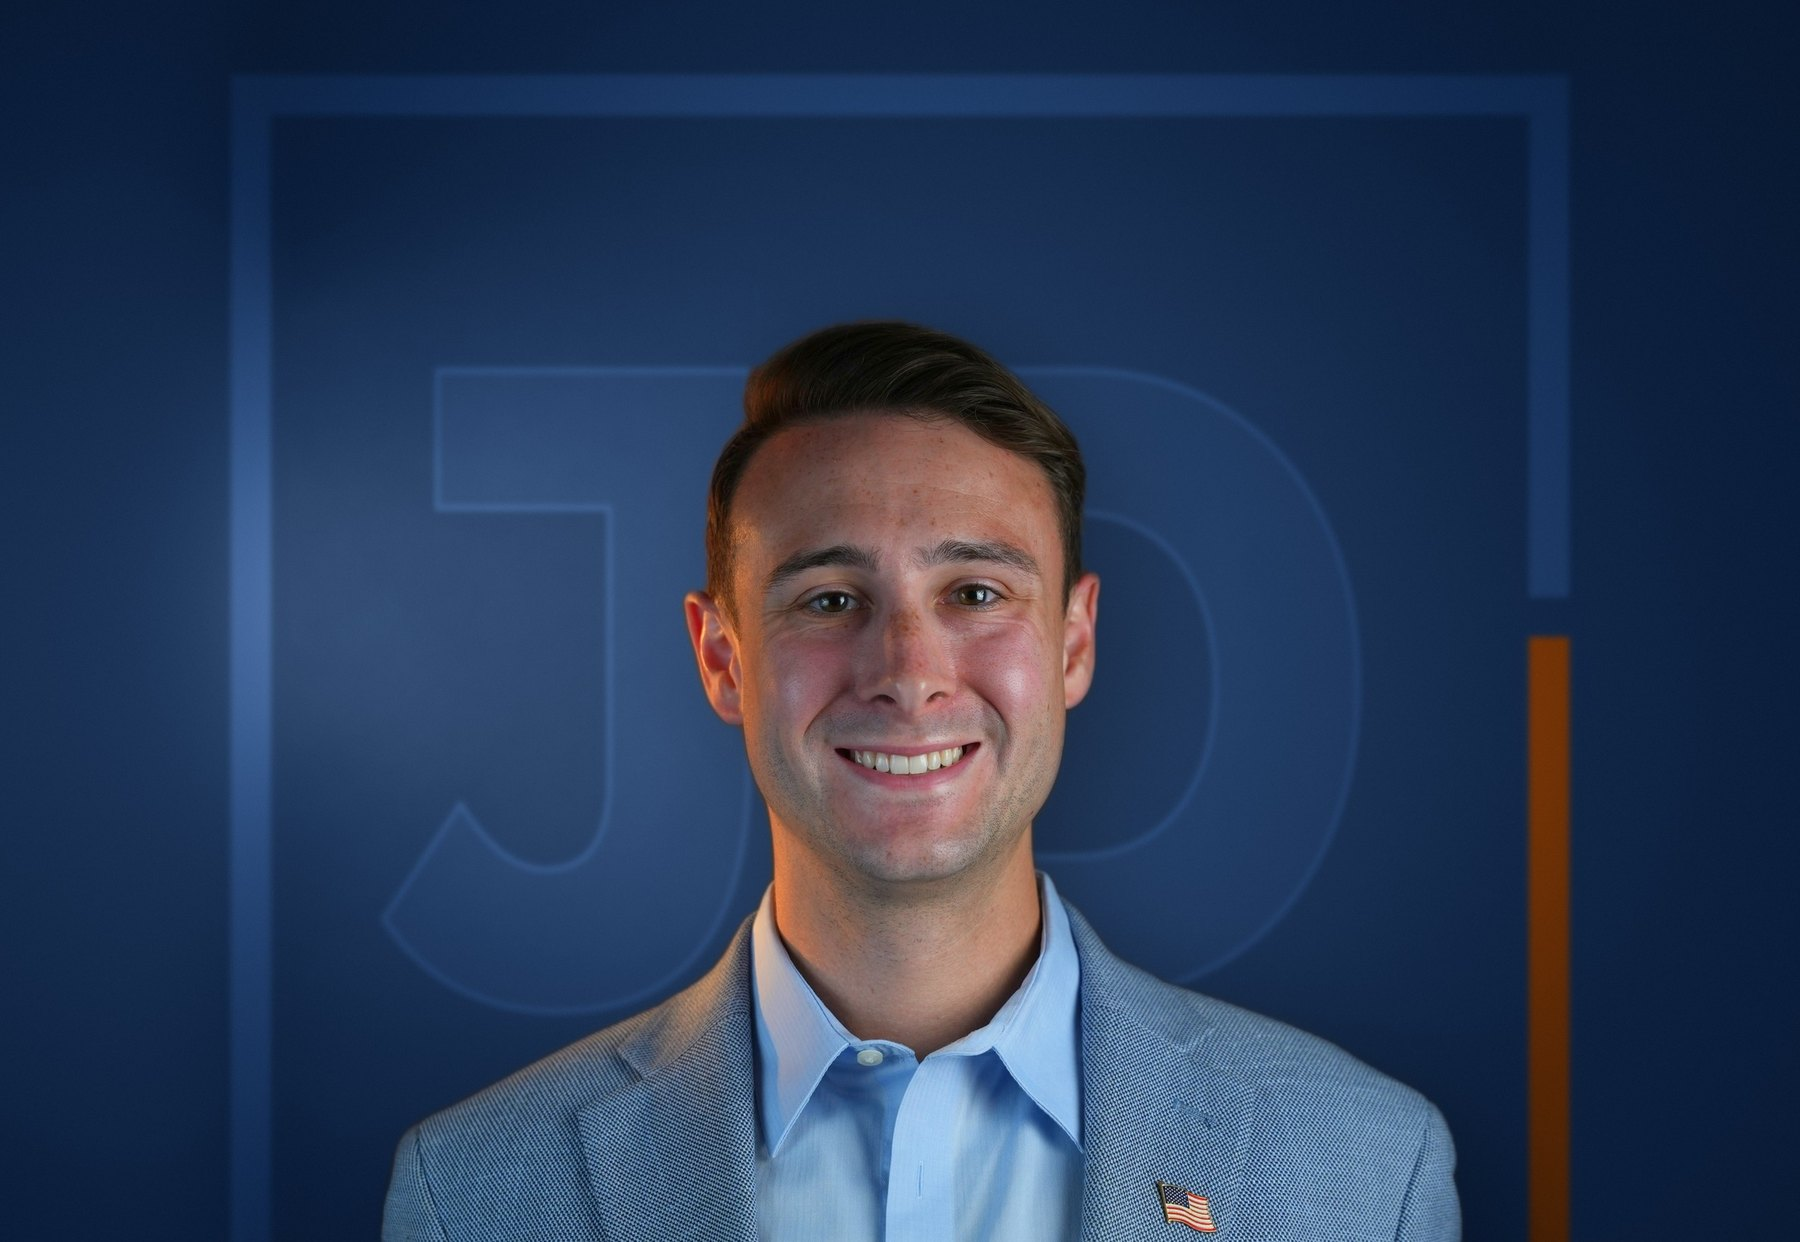
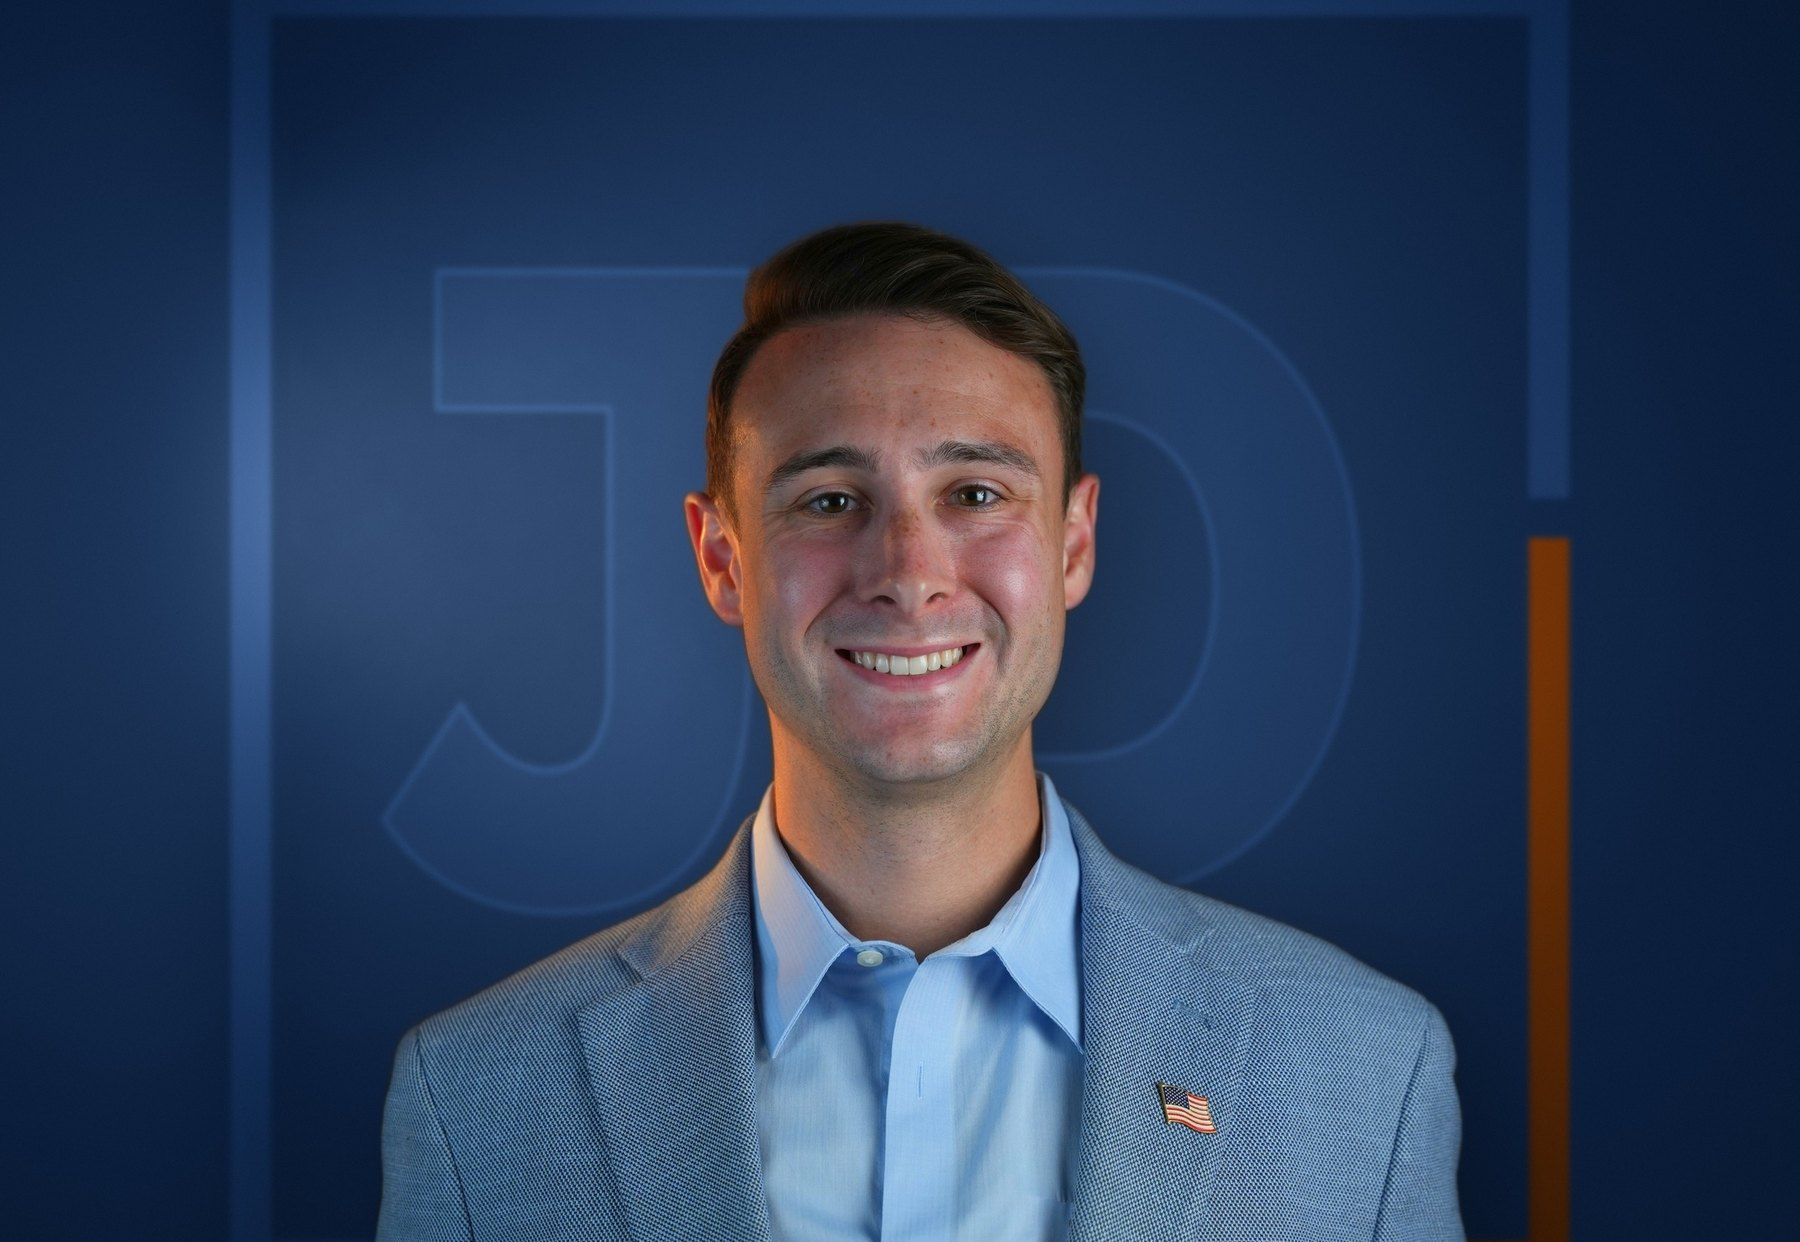
Round 31d: hero headroom trimmed; phone fixes for steps grid, footer columns and podcast card

diff --git a/index.html b/index.html
@@ -19,8 +19,8 @@
 <link rel="preconnect" href="https://fonts.googleapis.com">
 <link rel="preconnect" href="https://fonts.gstatic.com" crossorigin>
 <link href="https://fonts.googleapis.com/css2?family=Playfair+Display:ital,wght@0,400..900;1,400..900&family=Inter:opsz,wght@14..32,400..700&family=Montserrat:wght@400;800&display=swap" rel="stylesheet">
-<link rel="preload" as="image" href="assets/josh/hero.jpg?v=20261103d" imagesrcset="assets/josh/hero@900.jpg?v=20261103d 900w, assets/josh/hero@1600.jpg?v=20261103d 1600w, assets/josh/hero.jpg?v=20261103d 3200w" imagesizes="50vw" media="(min-width:901px)" fetchpriority="high">
-<link rel="preload" as="image" href="assets/josh/hero-m.jpg?v=20261103d" imagesrcset="assets/josh/hero-m@900.jpg?v=20261103d 900w, assets/josh/hero-m.jpg?v=20261103d 1800w" imagesizes="100vw" media="(max-width:900px)" fetchpriority="high">
+<link rel="preload" as="image" href="assets/josh/hero.jpg?v=20261103e" imagesrcset="assets/josh/hero@900.jpg?v=20261103e 900w, assets/josh/hero@1600.jpg?v=20261103e 1600w, assets/josh/hero.jpg?v=20261103e 3200w" imagesizes="50vw" media="(min-width:901px)" fetchpriority="high">
+<link rel="preload" as="image" href="assets/josh/hero-m.jpg?v=20261103e" imagesrcset="assets/josh/hero-m@900.jpg?v=20261103e 900w, assets/josh/hero-m.jpg?v=20261103e 1800w" imagesizes="100vw" media="(max-width:900px)" fetchpriority="high">
 <link rel="stylesheet" href="assets/site.css">
 </head>
 <body>
@@ -74,8 +74,8 @@
       </div>
     </div>
     <figure class="hero-photo">
-      <picture><source media="(max-width:900px)" srcset="assets/josh/hero-m@900.jpg?v=20261103d 900w, assets/josh/hero-m.jpg?v=20261103d 1800w" sizes="100vw">
-      <img src="assets/josh/hero.jpg?v=20261103d" srcset="assets/josh/hero@900.jpg?v=20261103d 900w, assets/josh/hero@1600.jpg?v=20261103d 1600w, assets/josh/hero.jpg?v=20261103d 3200w" sizes="(max-width:900px) 100vw, 50vw" width="3200" height="2400" alt="Josh DuBois, founder of JD Strategic Franchising" fetchpriority="high" decoding="async"></picture>
+      <picture><source media="(max-width:900px)" srcset="assets/josh/hero-m@900.jpg?v=20261103e 900w, assets/josh/hero-m.jpg?v=20261103e 1800w" sizes="100vw">
+      <img src="assets/josh/hero.jpg?v=20261103e" srcset="assets/josh/hero@900.jpg?v=20261103e 900w, assets/josh/hero@1600.jpg?v=20261103e 1600w, assets/josh/hero.jpg?v=20261103e 3200w" sizes="(max-width:900px) 100vw, 50vw" width="3200" height="2070" alt="Josh DuBois, founder of JD Strategic Franchising" fetchpriority="high" decoding="async"></picture>
       <figcaption class="hero-quote hv" style="--i:9"><p>I&rsquo;ve lived every side of it, the good deals and the bad ones, to help you manage the realities of ownership with clarity and confidence, without the costly mistakes.</p><cite>Josh DuBois, Founder</cite></figcaption>
     </figure>
   </div>

diff --git a/assets/site.css b/assets/site.css
@@ -145,7 +145,7 @@ body.ready .hero h1 .ln>span{transform:none}
 .hstat .n sup{font-size:.46em;vertical-align:.7em;font-weight:600}
 .hstat .l{font-size:10px;font-weight:700;letter-spacing:.16em;text-transform:uppercase;color:var(--muted);line-height:1.45;margin-top:9px;max-width:22ch}
 .hero-photo{position:relative;margin:0;overflow:hidden;background:var(--ink);min-height:420px}
-.hero-photo img{position:absolute;inset:0;width:100%;height:100%;object-fit:cover;object-position:50% 38%;transform-origin:50% 40%;opacity:0;transform:scale(1.05);transition:opacity 1.3s var(--ease-cine) .15s,transform 2.1s var(--ease-cine) .15s}
+.hero-photo img{position:absolute;inset:0;width:100%;height:100%;object-fit:cover;object-position:50% 20%;transform-origin:50% 30%;opacity:0;transform:scale(1.05);transition:opacity 1.3s var(--ease-cine) .15s,transform 2.1s var(--ease-cine) .15s}
 body.ready .hero-photo img{opacity:1;transform:none;animation:breathe 26s ease-in-out 2.4s infinite alternate}
 @keyframes breathe{from{transform:scale(1)}to{transform:scale(1.035)}}
 .hero-photo::after{content:"";position:absolute;inset:0;pointer-events:none;background:linear-gradient(to right,rgba(6,16,32,.16),transparent 22%)}
@@ -1420,3 +1420,12 @@ a.cat{display:block;color:inherit}
 /* ROUND 31: Josh centred at every width; the quote card never crosses his centre line */
 @media (min-width:901px){.hero-quote{max-width:min(300px,calc(50% - 72px))}}
 @media (min-width:901px) and (max-width:1180px){.hero-quote{padding:14px 16px 13px 18px}.hero-quote p{font-size:13.5px;line-height:1.45}}
+/* ROUND 31: later grid overrides (rounds 23/24) were unscoped and undid the phone stacking */
+@media (max-width:900px){
+  .pov{grid-template-columns:minmax(0,1fr)}
+  .foot-g{grid-template-columns:repeat(2,minmax(0,1fr))}.foot-g>div:first-child{grid-column:1/-1}
+}
+@media (max-width:600px){
+  .foot-g{grid-template-columns:minmax(0,1fr)}
+  .show-poster{aspect-ratio:4/5}.show-poster img{object-position:50% 20%}.show-chip{display:none}
+}

diff --git a/NOTES.md b/NOTES.md
@@ -1788,3 +1788,11 @@ extended the wall to 3200 wide, luma-mapped the wall to the navy ramp (ink-deep 
 light behind his shoulders, and painted the JD mark INTO the wall (multiplied by the same light, 4px out of focus, orange
 bracket lit by the same falloff). His warm rim light from the original shoot survives on his cheek. Subject: shadows lifted
 (gamma 0.78), vibrance +10%. Script: scratch `real.py` (numpy only; no cv2/scipy on this Mac). Swept 12 viewports.
+
+### Round 31d (same day): "not too much padding on top… make sure everything else looks good"
+- Hero desktop image cropped to 3200x2070 (330px of wall off the top), `object-position:50% 20%`; phone crop starts 130px lower.
+  Head now sits close under the top edge at all 12 swept sizes.
+- Full audit, all 10 pages at 1440 and 390 (`jd-strategic-tools/fullpages.mjs`: broken images, failed requests, sideways
+  scroll; all clean). Fixed on phones: the 01/02/03 "pov" steps were three skinny columns and the footer link columns were
+  cramped (rounds 23/24 put unscoped grid overrides after the media queries); the podcast card's "43 episodes" chip sat on the
+  title and the caption covered Josh's face (card is 4:5 on phones now, chip hidden).
